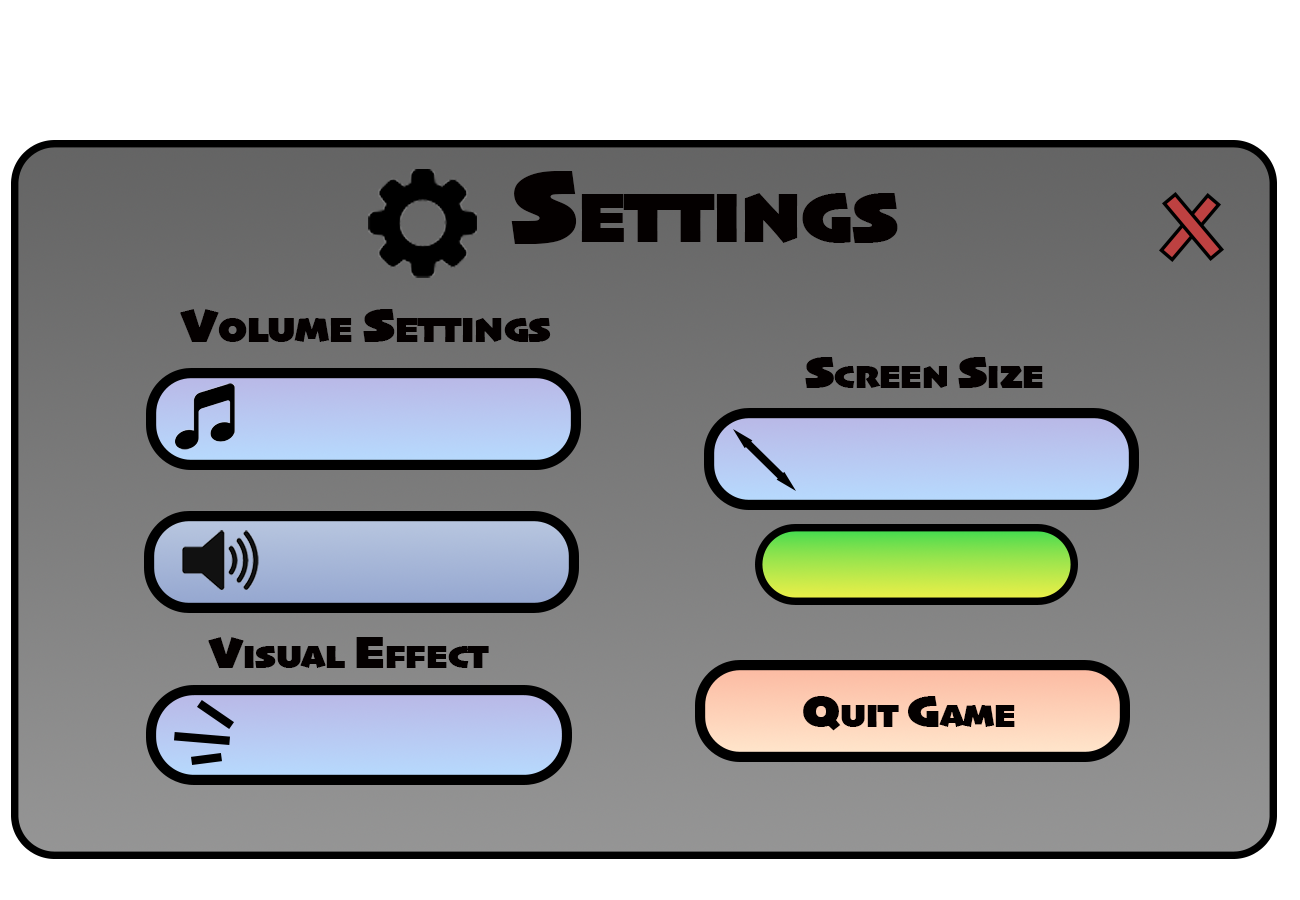
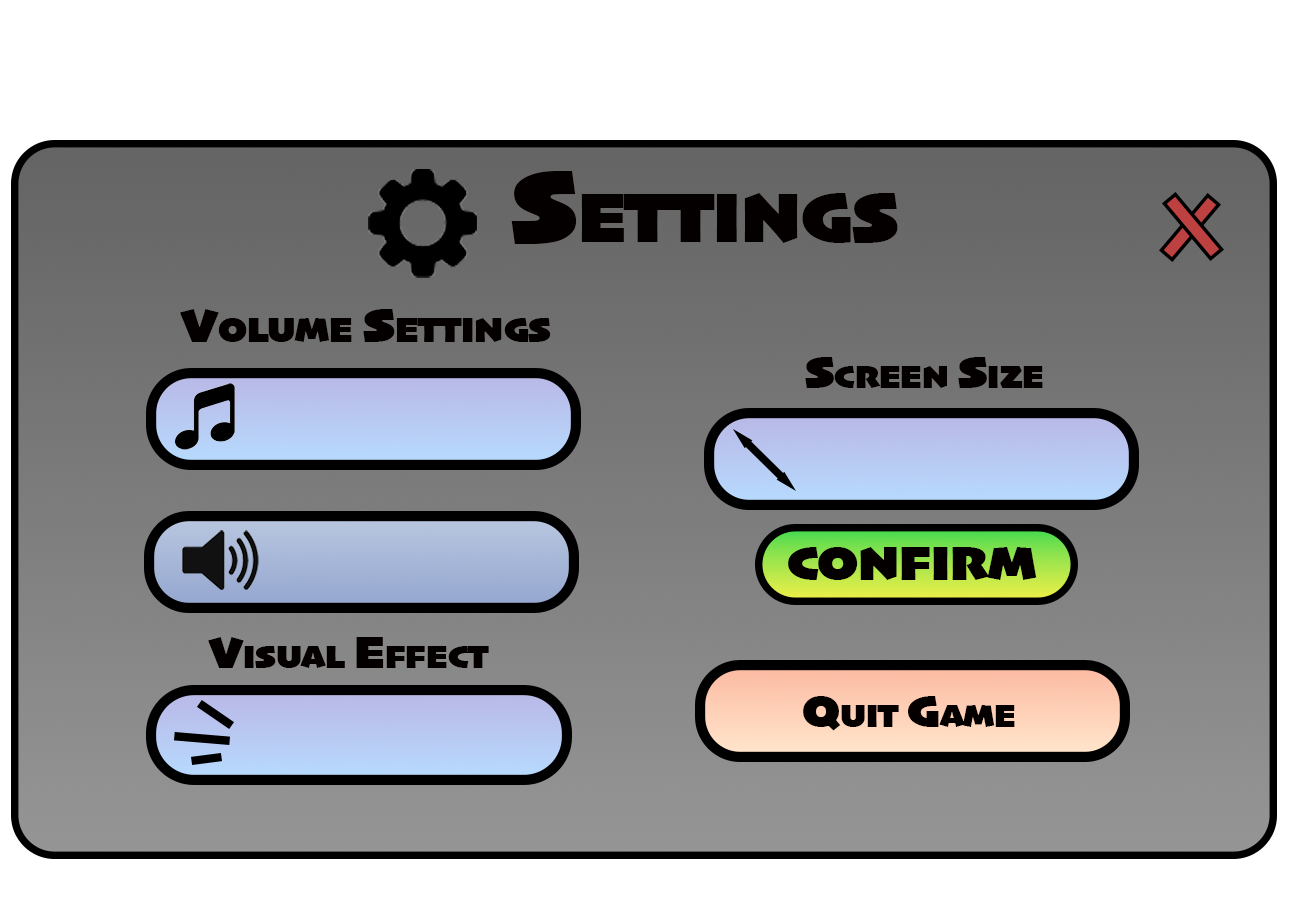
Fix Setting Menu

Changed region(s): [[0.5846, 0.5911, 0.8, 0.6533]]

diff --git a/main.py b/main.py
@@ -133,6 +133,8 @@ canvas = pygame.Surface((GAME_WIDTH, GAME_HEIGHT))
 WINDOW_WIDTH, WINDOW_HEIGHT = 1300, 900
 screen = pygame.display.set_mode((WINDOW_WIDTH, WINDOW_HEIGHT), pygame.RESIZABLE)
 pygame.display.set_caption("Auto-Scaled Window")
+Size_changer = 0
+Old_Size = 0
 
 is_fullscreen = False
 
@@ -1463,18 +1465,26 @@ while running:
             menu_ui_2 = pygame.Rect(145, 510, 440, 105)
             menu_ui_3 = pygame.Rect(145, 680, 435, 110)
             menu_ui_4 = pygame.Rect(700, 405, 440, 101)
+            Menu_text4.center = (830, 420)
+            menu_text4 = font2.render(Size_changer, True, (0, 0, 0))
             menu_ui_5 = pygame.Rect(750, 520, 330, 90)
             menu_ui_6 = pygame.Rect(690, 660, 440, 105)
 
         if Set_size == 1:
             print(size)
+            if Old_Size == 2:
+                is_fullscreen = not is_fullscreen
+                Old_Size = 1
             if size == 1:
-                is_fullscreen = False
                 WINDOW_WIDTH, WINDOW_HEIGHT = 1300, 900
+                Size_changer = "1300 x 900"
                 Set_size = 0
+                Old_Size = 1
             if size == 2:
                 is_fullscreen = not is_fullscreen
+                Size_changer = "Full Screen"
                 Set_size = 0
+                Old_Size = 2
 
                 if is_fullscreen:
                     # Cache the size right before we go into fullscreen mode
